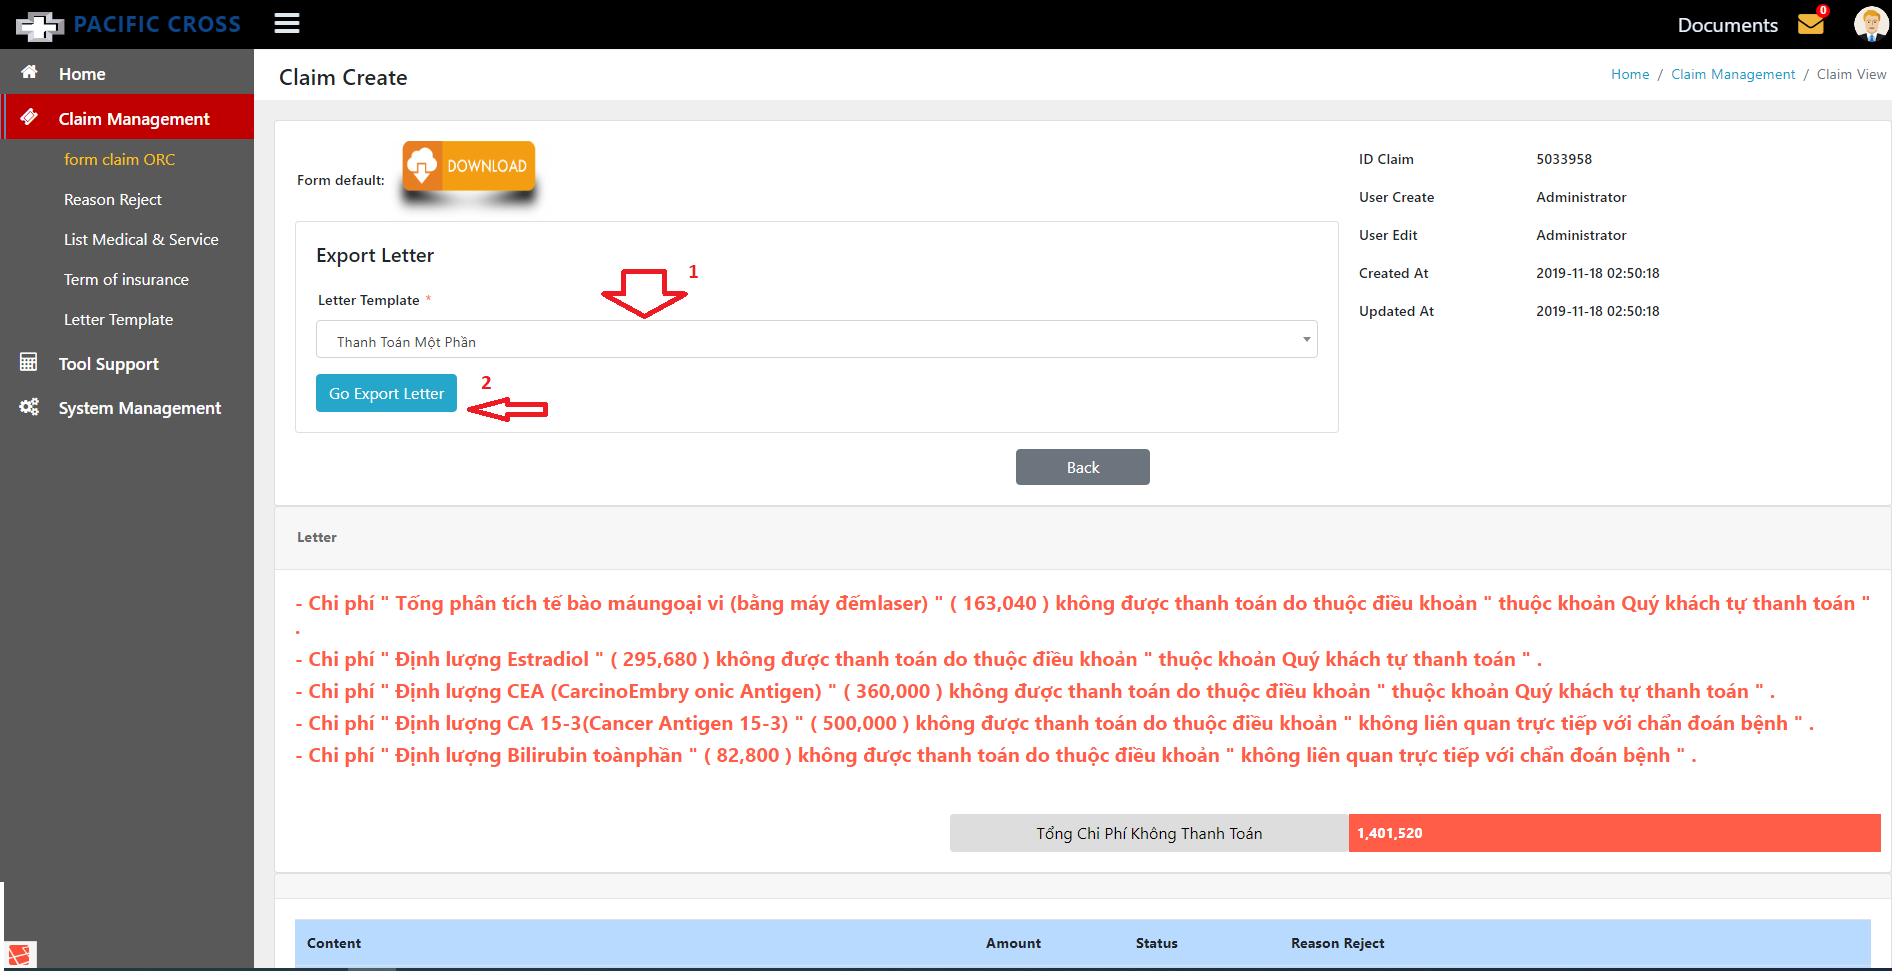
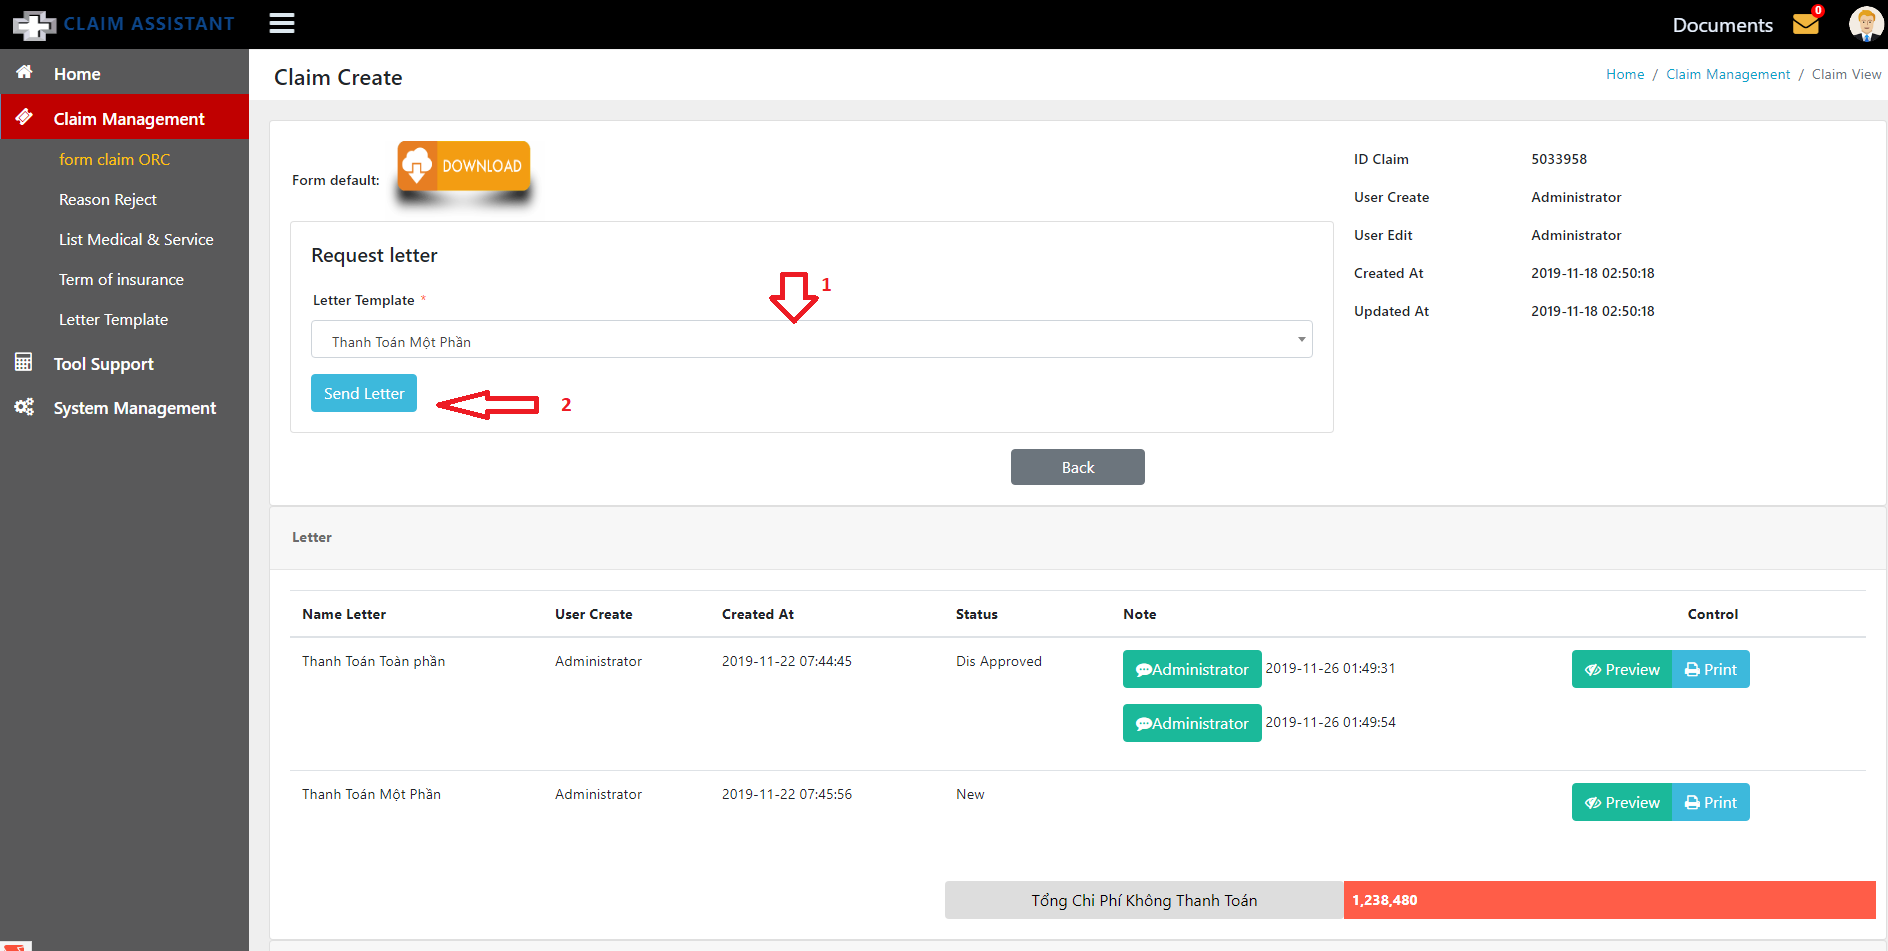
date

diff --git a/public/js/tinymce.js b/public/js/tinymce.js
@@ -211,17 +211,41 @@ tinymce.init(config2);
 
 //default
 var config3 = {
+    language: "en",
+    path_absolute : "/",
     selector: "textarea.editor_default",
-    height: 500,
-    toolbar: " insertfile undo redo | paste | copy",
-    plugins: "wordcount",
-    menubar: false,
-    content_css: [
-        "//fonts.googleapis.com/css?family=Lato:300,300i,400,400i",
-        "//www.tinymce.com/css/codepen.min.css",
-        'https://maxcdn.bootstrapcdn.com/bootstrap/4.0.0/css/bootstrap.min.css'
+    branding: false,
+    plugins: [
+    "advlist autolink lists link image charmap print preview hr anchor pagebreak",
+    "searchreplace wordcount visualblocks visualchars code fullscreen",
+    "insertdatetime media nonbreaking save table contextmenu directionality",
+    "emoticons template paste textcolor colorpicker textpattern",
     ],
+    toolbar: ["insertfile undo redo | styleselect | bold italic | alignleft aligncenter alignright alignjustify | bullist numlist outdent indent | link image media",
+            "Note"
+            ],
+    relative_urls: false,
+    height: 500,
+    file_browser_callback : function(field_name, url, type, win) {
+    var x = window.innerWidth || document.documentElement.clientWidth || document.getElementsByTagName('body')[0].clientWidth;
+    var y = window.innerHeight|| document.documentElement.clientHeight|| document.getElementsByTagName('body')[0].clientHeight;
 
-    
+    var cmsURL = editor_config.path_absolute + 'laravel-filemanager?field_name=' + field_name;
+    if (type == 'image') {
+        cmsURL = cmsURL + "&type=Images";
+    } else {
+        cmsURL = cmsURL + "&type=Files";
+    }
+    },
+    setup: function(editor) {
+        editor.addButton("Note", {
+            text: "Note",
+            icon: false,
+            onclick: function() {
+                editor.insertContent('&nbsp;<div style="width:340px ; border: 3px solid red; color:red ; background-color: #d4d4d4"> Enter text here...</div> &nbsp;');
+            }
+        });
+        
+    }
 };
 tinymce.init(config3);

diff --git a/public/css/style.css b/public/css/style.css
@@ -300,7 +300,7 @@ a {
 
 .logo {
   color: #e3ebf3 !important;
-    font-size: 22px;
+    font-size: 18px;
     font-weight: bold;
     text-transform: uppercase;
     letter-spacing: 1px;

diff --git a/resources/views/claimManagement/show.blade.php b/resources/views/claimManagement/show.blade.php
@@ -86,6 +86,8 @@ $totalAmount = 0;
                             <th>Name Letter</th>
                             <th>{{ __('message.account_create')}}</th>
                             <th>{{ __('message.date_created')}}</th>
+                            <th>Status</th>
+                            <th>Note</th>
                             <th class='text-center'>{{ __('message.control')}}</th>
                         </tr>
                     </thead>
@@ -95,6 +97,27 @@ $totalAmount = 0;
                             <td>{{$item->letter_template->name}}</td>
                             <td>{{$item->userCreated->name}}</td>
                             <td>{{ $item->created_at }}</td>
+                            <td>
+                                {{ data_get(config('constants.statusExportText'),  $item->status , "none") }}
+                            </td>
+                            <td>
+                                @foreach ($item->note as $note)
+                                    <div class="form-group">
+                                        {!! Form::button('<i class="fa fa-commenting"></i>' . $admin_list[$note['user']], ['data-toggle' => "modal" ,  
+                                        'data-target' => "#noteModal",
+                                        'type' => 'button', 
+                                        'class' => 'btn btn-success btn-xs' , 
+                                        'onclick' => 'note(this);',
+                                        'data-claim_id' => $data->id,
+                                        'data-note' => $note['note'],
+                                        'data-status' => $item->status,
+                                        'data-id' => $item->id
+                                        ]) !!}
+                                        {{$note['created_at']}}
+                                    </div>
+                                @endforeach
+
+                            </td>
                             <td>
                                 {{ Form::open(array('url' => '/admin/exportLetter', 'method' => 'POST')) }}
                                     {{ Form::hidden('claim_id', $data->id ) }}
@@ -106,7 +129,9 @@ $totalAmount = 0;
                                         'class' => 'btn btn-success btn-xs' , 
                                         'onclick' => 'preview(this);',
                                         'data-claim_id' => $data->id,
-                                        'data-letter_template_id' => $item->letter_template->id
+                                        'data-letter_template_id' => $item->letter_template->id,
+                                        'data-status' => $item->status,
+                                        'data-id' => $item->id
                                         ]) 
                                     !!}
                                     {!! Form::button('<i class="fa fa-print"></i> Print', ['type' => 'submit', 'class' => 'btn btn-info btn-xs']) !!}
@@ -190,27 +215,57 @@ $totalAmount = 0;
     </div>
 </div>
 
-{{-- Modal --}}
+{{-- Modal preview--}}
 <div id="previewModal" class="modal fade bd-example-modal-lg" role="dialog">
     <div class="modal-dialog modal-lg">
         <!-- Modal content-->
         <div class="modal-content">
-            <div class="modal-header">
-                <h4 class="modal-title">Preview</h4>
-                <button type="button" class="close" data-dismiss="modal">&times;</button>
-            </div>
-            <div class="modal-body">
-                {{ Form::textarea('template', old('template'), ['id' => 'preview_letter', 'class' => 'form-control editor_default']) }}<br>
-            </div>
-            <div class="modal-footer">
-                <form id="form_delete" action="#" method="POST">
-                    {{ csrf_field() }}
-                    {{ method_field('DELETE') }}
-                    <button class="btn btn-danger">{{ __('message.yes')}} </button>
-                    <button type="button" class="btn btn-secondary btn-cancel-delete" 
-                        data-dismiss="modal">{{ __('message.no') }}</button>
-                </form>
-            </div>
+            {{ Form::open(array('url' => '/admin/changeStatus', 'method' => 'POST')) }}
+                {{ Form::hidden('id', null ,['id' => 'export_letter_id']) }}
+                {{ Form::hidden('claim_id', null ,['id' => 'ex_claim_id']) }}
+
+                <div class="modal-header">
+                    <h4 class="modal-title">Preview</h4>
+                    <button type="button" class="close" data-dismiss="modal">&times;</button>
+                </div>
+                <div class="modal-body">
+                    {{ Form::textarea('template', old('template'), ['id' => 'preview_letter', 'class' => 'form-control editor_default']) }}<br>
+                </div>
+                <div class="modal-footer">
+                    {{ Form::select('status', config('constants.statusExportText'), null, ['id' => 'status_letter', 'class' => 'form-control editor_default', ]) }}<br>
+                    
+                        <button class="btn btn-danger">{{ __('message.yes')}} </button>
+                        <button type="button" class="btn btn-secondary btn-cancel-delete" 
+                            data-dismiss="modal">{{ __('message.no') }}</button>
+                </div>
+            {!! Form::close() !!}
+        </div>
+    </div>
+</div>
+
+{{-- Modal note--}}
+<div id="noteModal" class="modal fade bd-example-modal-lg" role="dialog">
+    <div class="modal-dialog modal-lg">
+        <!-- Modal content-->
+        <div class="modal-content">
+            {{ Form::open(array('url' => '/admin/changeStatus', 'method' => 'POST')) }}
+                
+
+                <div class="modal-header">
+                    <h4 class="modal-title">Note</h4>
+                    <button type="button" class="close" data-dismiss="modal">&times;</button>
+                </div>
+                <div class="modal-body">
+                    {{ Form::textarea('template', old('template'), ['id' => 'note_letter', 'class' => 'form-control editor_default']) }}<br>
+                </div>
+                <div class="modal-footer">
+                    {{-- {{ Form::select('status', config('constants.statusExportText'), null, ['id' => 'status_letter', 'class' => 'form-control editor_default', ]) }}<br> --}}
+                    
+                        {{-- <button class="btn btn-danger">{{ __('message.yes')}} </button> --}}
+                        <button type="button" class="btn btn-secondary btn-cancel-delete" 
+                            data-dismiss="modal">{{ __('message.no') }}</button>
+                </div>
+            {!! Form::close() !!}
         </div>
     </div>
 </div>
@@ -226,8 +281,16 @@ $totalAmount = 0;
 <script src="{{ asset('js/tinymce.js') }}"></script>
 <script>
     function preview(e){
+        $(".loader").show();
         var claim_id =  e.dataset.claim_id;
         var letter_template_id = e.dataset.letter_template_id;
+        var status = e.dataset.status;
+        var id = e.dataset.id;
+        $('#status_letter').val(status).change();
+        $('#export_letter_id').val(id);
+        $('#ex_claim_id').val(claim_id);
+        
+        tinymce.get("preview_letter").setContent("");
         $.ajax({
         url: '/admin/previewLetter',
         type: 'POST',
@@ -235,9 +298,22 @@ $totalAmount = 0;
         data: {'claim_id' : claim_id , 'letter_template_id' : letter_template_id },
         })
         .done(function(res) {
-           $("#preview_letter").val(res);
+            tinymce.get("preview_letter").setContent(res);
+            $(".loader").fadeOut("slow");
         })
-       
+    }
+
+    function note(e){
+        var claim_id =  e.dataset.claim_id;
+        var letter_template_id = e.dataset.letter_template_id;
+        var status = e.dataset.status;
+        var id = e.dataset.id;
+        var note = e.dataset.note;
+        $('#status_letter').val(status).change();
+        $('#export_letter_id').val(id);
+        $('#ex_claim_id').val(claim_id);
+        
+        tinymce.get("note_letter").setContent(note);
     }
 </script>
 @endsection

diff --git a/app/Http/Controllers/ClaimController.php b/app/Http/Controllers/ClaimController.php
@@ -261,6 +261,29 @@ class ClaimController extends Controller
         $data->delete();
         return redirect('/admin/claim')->with('status', __('message.delete_claim'));
     }
+    // change
+    public function changeStatus(Request $request)
+    {
+        
+        $claim_id = $request->claim_id;
+        $id = $request->id;
+        $user = Auth::User();
+        $export_letter = ExportLetter::findOrFail($id);
+        $export_letter->status = $request->status;
+        if($export_letter->note == null){
+            $data = [];
+        }else{
+            $data = $export_letter->note;
+        }
+        array_push($data ,
+                                        [  'user' => $user->id,
+                                            'created_at' => Carbon::now()->toDateTimeString(),
+                                            'note' => $request->template
+                                        ]);
+        $export_letter->note = $data;        
+        $export_letter->save();        
+        return redirect('/admin/claim/'.$claim_id)->with('status', __('message.update_claim'));
+    }
 
     public function searchFullText(Request $request)
     {
@@ -337,8 +360,9 @@ class ClaimController extends Controller
     public function previewLetter(Request $request){
         
         $content = $this->letter($request->letter_template_id , $request->claim_id);
-        return response()->json(htmlentities($content));
+        return response()->json(mb_convert_encoding($content, 'UTF-8', 'UTF-8'));
     }
+
 
     // export letter
     public function letter($letter_template_id , $claim_id){ 
@@ -440,7 +464,6 @@ class ClaimController extends Controller
         $content = str_replace('[[$TermRemark]]', implode(' ',array_unique($TermRemark)) , $content);
         
         return $content;
-       
         
     }
 

diff --git a/routes/web.php b/routes/web.php
@@ -36,6 +36,7 @@ Route::group(['prefix' => 'admin'], function () {
         Route::post('/requestLetter','ClaimController@requestLetter')->name('requestLetter');
         Route::post('/exportLetter','ClaimController@exportLetter')->name('exportLetter');
         Route::post('/previewLetter','ClaimController@previewLetter')->name('previewLetter');
+        Route::post('/changeStatus','ClaimController@changeStatus')->name('changeStatus');
 
         Route::resource('reason_reject', 'ReasonRejectController');
         Route::resource('product', 'ProductController');

diff --git a/app/ExportLetter.php b/app/ExportLetter.php
@@ -8,6 +8,17 @@ class ExportLetter extends BaseModel
     protected $table    = 'export_letter';
     protected $guarded  = ['id'];
     protected static $table_static = 'export_letter';
+    protected $casts = [
+        'note'  => 'array',
+    ];
+    protected function castAttribute($key, $value)
+    {
+        if ($this->getCastType($key) == 'array' && is_null($value)) {
+            return [];
+        }
+        return parent::castAttribute($key, $value);
+    }
+    
     protected $dates = ['deleted_at'];
     
     public function letter_template()

diff --git a/resources/views/layouts/admin/partials/top_bar_navigation.blade.php b/resources/views/layouts/admin/partials/top_bar_navigation.blade.php
@@ -2,7 +2,7 @@
 <div class="headerbar">
     <!-- LOGO -->
     <div class="headerbar-left">
-        <a href="{{ url('') }}" class="logo"><img style="width:50px" alt="Logo" src="{{asset('images/logo.png')}}" /> <span style="color: #0C4588">PACIFIC CROSS</span></a>
+        <a href="{{ url('') }}" class="logo"><img style="width:45px" alt="Logo" src="{{asset('images/logo.png')}}" /> <span style="color: #0C4588">Claim Assistant</span></a>
     </div>
 
     <nav class="navbar-custom">

diff --git a/config/constants.php b/config/constants.php
@@ -24,8 +24,15 @@ return[
 
     'statusExport' => [
         'new' => 0,
-        'approve' => 1,
+        'approved' => 1,
         'dis_approve' => 2,
+        'repair_completed' => 3
+    ],
+    'statusExportText' => [
+        0 => "New",
+        1 => 'Approved',
+        2 => 'Dis Approved',
+        3 => 'Repair Completed'
     ]
     
 ];

diff --git a/resources/docs/1.0/print_letter.md b/resources/docs/1.0/print_letter.md
@@ -11,3 +11,33 @@
 ![image](/images/docs/print1.png)
 
 ![image](/images/docs/print2.png)
+
+```
+    B1: Choice letter request
+    B2 : Click send letter
+```
+
+![image](/images/docs/print3.png)
+
+```
+    B3: After the user create claim, the group leader can view and update the approved status. If status is dont Approved then can use note at file preview .
+    
+```
+![image](/images/docs/print4.png)
+
+
+```
+    B4: Quickly add 1 note area 
+    B5: Write notes
+    B6: Change status
+    B7: Save
+```
+
+![image](/images/docs/print5.png)
+
+
+```
+    B8: Quickly add 1 note area 
+    B9: Print letter
+
+```
